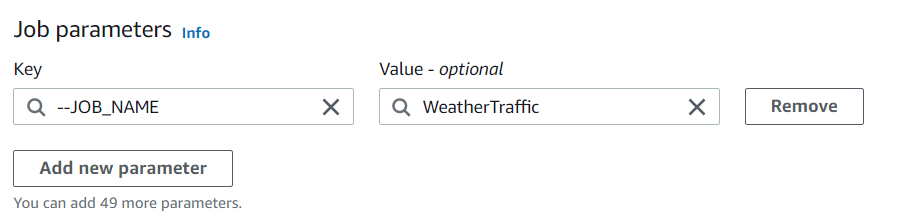
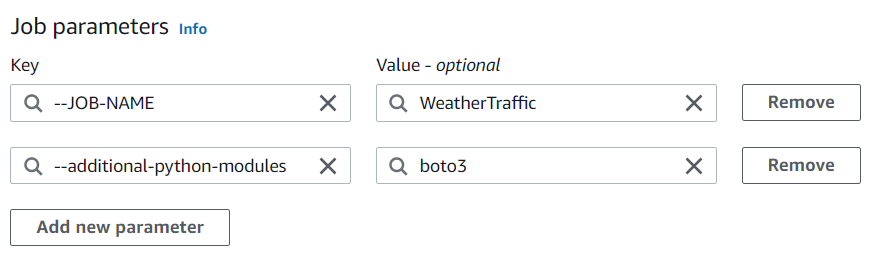
doc: README com correções na configuração do Glue Job

diff --git a/README.md b/README.md
@@ -170,15 +170,18 @@ INSERT INTO Rotas (cod_rota, cod_pessoa, origem_rota, destino_rota, data_rota, f
 (10, 10, 'Vitória - ES', 'Cuiabá - MT', '2024-01-24 10:00:00', 'Estudo');
 ```
 ## Configuração do Glue
-### 1. Instale as bibliotecas externas do Glue
+### 1. Instale as bibliotecas externas do script para o Glue Job
 
 Execute o seguinte comando na sua máquina local para obter as bibliotecas externas do Glue:
 
 ```bash
-pip install <biblioteca1> <biblioteca2> -t "/caminho/para/salvar/as/bibliotecas"
+pip install googletrans==4.0.0-rc1 googlemaps mysql.connector -t "/caminho/para/salvar/as/bibliotecas"
 cd "/caminho/para/salvar/as/bibliotecas"
+rm -rf "/caminho/para/salvar/as/bibliotecas/urllib3"
 zip -r dependencies.zip .
 ```
+
+`Obs: É necessário remover a pasta urllib3 antes de zipar as bibliotecas pois o boto3 será carregado manualmente pelo Job Parameter do Glue Job, se não remover o urllib3 retornará um erro.`
 
 ### 2. Faça o upload do arquivo zip para o S3
 
@@ -198,10 +201,12 @@ Carregue o arquivo zip gerado ("dependencies.zip") em um bucket do Amazon S3. Co
 - No campo "Python library path" na seção de "Libraries", insira o URI do S3 do arquivo zip que você carregou no passo 2.
 ![Carregando bibliotecas externas no Glue Job](/assets/libraries-dependencies-glue.png)
 
-### 6. Configuração do Job Parameter
+### 6. Configuração do Job Parameters
 
 - Crie um parâmetro de job com a chave --JOB_NAME e o valor WeatherTraffic.
+- Crie um outro parâmetro de job com a chave --additional-python-modules e o valor boto3.
 ![Criando um parâmetro de job no Glue Job](/assets/job-parametes-glue.png)
+
 
 ### 7. Configuração da Role do IAM
 
